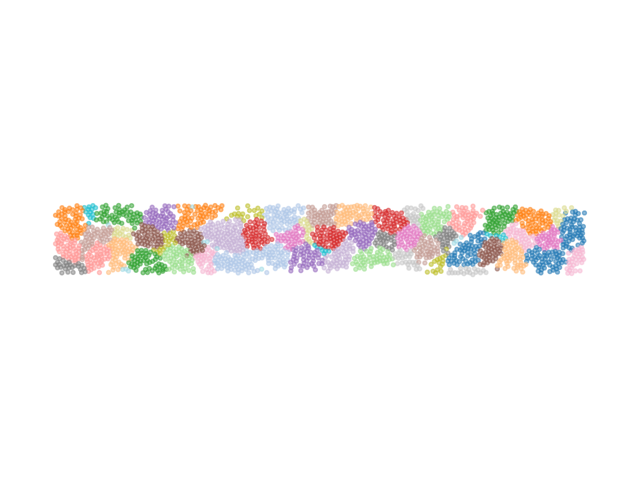
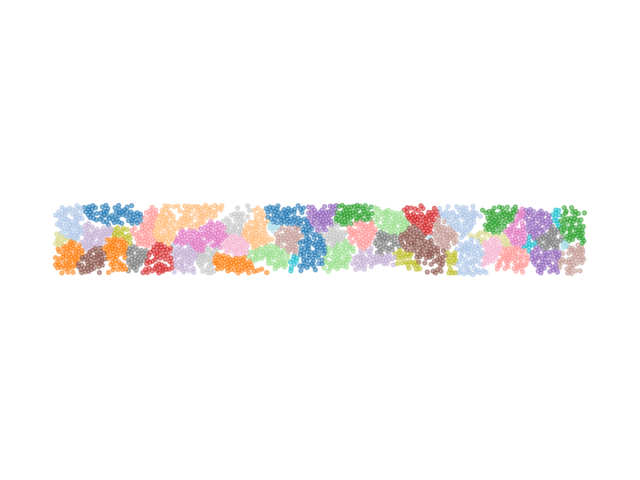
added original and synthetic

Changed region(s): [[0.0625, 0.4062, 0.9375, 0.5938]]

diff --git a/scrips/synthetic_clustering.py b/scrips/synthetic_clustering.py
@@ -14,29 +14,30 @@ from plot import plot_fibers_clustered
 """ ------------------------------------------- Import data and manipulate dataframe ------------------------------------------- """
 #Import data and clean it
 raw_df = pd.read_csv('raw_data.csv')    #Original data
-syn_df = pd.read_csv('sim_data.csv')    #Synthetic data
 
 data_clean = data_cleaned(raw_df)       #Original data
 #No cleaned data for synthetic fibers
 
 df = tangent_angles_central(data_clean) #Original data
 
+syn_df = pd.read_csv('sim_data.csv')    #Synthetic data
+
 
 #Define layer_0 data
-layer_0 = df[df['z_idx'] == 0]
+layer_0 = syn_df[syn_df['z_idx'] == 0]
 layer_0 = layer_0.reset_index(drop=True)
 #Consider only required features for clustering
-features = ['fibre_id', 'x', 'y', 'angle_x_deg', 'angle_y_deg']
-cleaned_data = layer_0[['x', 'y', 'angle_x_deg', 'angle_y_deg']]
+features = ['fibre_id', 'x', 'y']
+cleaned_data = layer_0[['x', 'y']]
 cleaned_data = np.column_stack((layer_0['fibre_id'].values, cleaned_data))
 
 #For all other layers create dataframe
 cleaned_data_i = []
-unique_layers = sorted(df['z_idx'].unique())
+unique_layers = sorted(syn_df['z_idx'].unique())
 for layer_i in unique_layers[1:]:
-    current_layer = df[df['z_idx'] == layer_i]
+    current_layer = syn_df[syn_df['z_idx'] == layer_i]
     current_layer = current_layer.reset_index(drop=True)
-    layer_features = current_layer[['fibre_id','x', 'y', 'angle_x_deg', 'angle_y_deg']]
+    layer_features = current_layer[['fibre_id','x', 'y']]
     cleaned_data_i.append(layer_features)
 
 
@@ -67,7 +68,7 @@ print(f"The optimal number of neighbors is: {optimal_k}")
 """ ------------------------------------------ """
 
 
-""" --------- Neighborhood rule functions, store cartesian distances and respective angles between each pair of fibers --------- """
+""" --------- Neighborhood rule functions, store cartesian distances between each pair of fibers --------- """
 def good_neighbor_distance(cleaned_data):
     #Determine distance metric and store as list
     results_d = []
@@ -87,25 +88,6 @@ def good_neighbor_distance(cleaned_data):
             results_d.append((fibre_id_i, fibre_id_j, D_distance))
 
     return results_d
-
-def good_neighbor_angle(cleaned_data):
-    results_a = []
-    for i in range(len(cleaned_data)):
-            for j in range(i+1, len(cleaned_data)):
-                #Difference in angles
-                delta_anglex_norm = np.abs(cleaned_data[i, 3] - cleaned_data[j, 3])
-                delta_angley_norm = np.abs(cleaned_data[i, 4] - cleaned_data[j, 4])
-
-                #Distance metric for angle
-                D_angle = np.arctan(np.sqrt(delta_anglex_norm ** 2 + delta_angley_norm ** 2))
-
-                #Store fiber metric score with respective fibre id's
-                fibre_id_i = cleaned_data[i, 0]
-                fibre_id_j = cleaned_data[j, 0]
-
-                results_a.append((fibre_id_i, fibre_id_j, D_angle))
-
-    return results_a
 
 
 """ ---------------------- Plot histogram of distances and angles, and determine threshold as percentiles ---------------------- """
@@ -133,33 +115,8 @@ plt.close('all')
 print("Threshold_Distance", threshold_distance)
 
 
-#Angles
-scores_0_a = []
-layer_0_results_a = good_neighbor_angle(cleaned_data)
-for item in layer_0_results_a:
-    scores_0_a.append(item[2])
-
-#Choose a threshold
-pct_a = 95
-
-threshold_angle = np.percentile(scores_0_a, pct_a)
-
-# Plot histogram
-plt.figure()
-plt.hist(scores_0_a, bins=100)
-plt.axvline(threshold_angle,color = 'r', label = 'Threshold') 
-plt.title("Angle Histogram")
-plt.xlabel("Angle bwetween pairs of points")
-plt.ylabel("Frequency")
-plt.legend()
-plt.savefig(fname = 'Angle_Histogram')
-plt.close('all')
-print("Threshold_Angle", threshold_angle)
-
-
 """ ------------------------------------- Build distance and angle matrix and create graph ------------------------------------- """
 results_distance = good_neighbor_distance(cleaned_data)
-results_angle = good_neighbor_angle(cleaned_data)
 
 #Map fibre_id to row index
 fibre_ids = cleaned_data[:, 0].astype(int)
@@ -170,9 +127,6 @@ n_d = len(fibre_ids)
 D_d = np.full((n_d, n_d), np.inf)
 np.fill_diagonal(D_d, 0)
 
-n_a = len(fibre_ids)
-D_a = np.full((n_a, n_a), np.inf)
-np.fill_diagonal(D_a, 0)
 
 #Fill matrices
 for fibre_d_i, fibre_d_j, score in results_distance:
@@ -180,12 +134,6 @@ for fibre_d_i, fibre_d_j, score in results_distance:
     j = id_to_idx[int(fibre_d_j)]
     D_d[i, j] = score
     D_d[j, i] = score
-
-for fibre_d_i, fibre_d_j, score in results_angle:
-    ii = id_to_idx[int(fibre_d_i)]
-    jj = id_to_idx[int(fibre_d_j)]
-    D_a[ii, jj] = score
-    D_a[jj, ii] = score
 
 
 """"Build combined graph"""
@@ -215,12 +163,11 @@ for i in range(len(fibre_ids)):
             continue
 
         score_d = D_d[i, j]
-        score_a = D_a[i, j]
 
         #Apply thresholds separately
-        if (score_d <= threshold_distance and score_a <= threshold_angle):
+        if (score_d <= threshold_distance):
 
-            combined_score = score_d + score_a
+            combined_score = score_d
             similarity = 1 / (combined_score + 1e-12)
             G_both.add_edge(fid_i, fid_j, weight=similarity)
 
@@ -281,12 +228,12 @@ nx.draw(G_both, pos, node_size=8, width=0.2, alpha=0.5, with_labels=False)
 plt.title("Network plot")
 plt.axis('equal')
 plt.show()
-plt.savefig(f'Original network plot.png')
+plt.savefig(f'Synthetic Network plot.png')
 plt.close('all')
 nx.draw(G_both, pos, node_size=8, width=0, alpha=0.5, with_labels=False, node_color=node_colors)
 plt.title("Cluster plot")
 plt.axis('equal')
-plt.savefig(f'Original cluster plot.png')
+plt.savefig(f'Synthetic cluster plot.png')
 plt.show()
 plt.close('all')
  
@@ -450,4 +397,4 @@ cluster_df = pd.DataFrame(cluster_rows)
 #Merge with original dataframe
 df_clustered = df.merge(cluster_df, on='fibre_id', how='left')
 
-plot_fibers_clustered(df_clustered, "Clustered Fibres on original data")
+plot_fibers_clustered(df_clustered, "Clustered Fibres on synthetic data")

diff --git a/scrips/plot.py b/scrips/plot.py
@@ -312,6 +312,7 @@ def plot_fibers_clustered(df,title):
     scene=dict(aspectmode="manual",
             aspectratio=dict(x=1, y=1, z=1)) #change these values if you want to change the aspect ratio of the image
     )
+    plt.axis('equal')
     fig.show()
 
 def plot_score(df, n_clusters):
